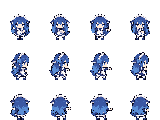
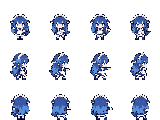
Pick symmetry-friendly sampling offsets so both eyes match
The AI art's pixel grid does not line up with our sampling grid, so one
eye could land on a block boundary and shrink to a single pixel.
pixelize.py now tries several sub-pixel offsets per row and keeps the
one with the most left-right symmetric face on front-facing cells
(--front) and the cleanest blocks elsewhere; a whole row shares one
offset so animations do not jitter. All sheets regenerated.

diff --git a/art/pixelize.py b/art/pixelize.py
@@ -25,6 +25,7 @@ ap.add_argument("--colors", type=int, default=20)
 ap.add_argument("--preview", default="")
 ap.add_argument("--ref", default="", help="用第 r,c 格（从 0 数）的高度定比例：这一格缩成 --height 高")
 ap.add_argument("--strip-tool", action="store_true", help="抠掉灰色工具头、棕色手柄/鱼竿、灰蓝水壶（游戏会自己画工具）")
+ap.add_argument("--front", default="", help="正脸格子，取样时优先保证左右对称：'0' 是第 0 行整行，'1:3' 是第 1 行第 3 列，逗号分隔")
 args = ap.parse_args()
 CELL_W, CELL_H = (int(v) for v in args.cell.split("x"))
 
@@ -96,18 +97,23 @@ else:
 print(f"block size {block:.2f}")
 print("cell heights:", {k: round((v[1] - v[0] + 1) / block, 1) for k, v in cells.items()})
 
-sheet = np.zeros((args.rows * CELL_H, args.cols * CELL_W, 4), dtype=np.uint8)
-for (ri, ci), (top, bottom, x0, x1) in cells.items():
-    own = np.zeros_like(fg)
-    own[top:bottom + 1, x0:x1 + 1] = True
-    cfg = fg & own
-    head_bottom = top + int((bottom - top) * 0.4)
-    hx = np.where(cfg[top:head_bottom + 1].any(0))[0]
-    head_cx = (hx.min() + hx.max()) / 2
+def is_front(ri, ci):
+    """--front 指定的正脸格子："0" 表示第 0 行整行，"1:3" 表示第 1 行第 3 列。"""
+    for item in filter(None, args.front.split(",")):
+        r_, _, c_ = item.partition(":")
+        if int(r_) == ri and (not c_ or int(c_) == ci):
+            return True
+    return False
+
+
+def sample(cfg, bottom, head_cx, dx, dy):
+    """按给定的取样起点偏移，把一格缩成 CELL_W x CELL_H。返回 (RGBA 图, 平均纯度)。"""
+    out = np.zeros((CELL_H, CELL_W, 4), dtype=np.uint8)
+    purity = []
     for ty in range(CELL_H):
         for tx in range(CELL_W):
-            sy0 = bottom + 1 - (CELL_H - ty) * block
-            sx0 = head_cx + (tx - CELL_W / 2) * block
+            sy0 = bottom + 1 - (CELL_H - ty) * block + dy
+            sx0 = head_cx + (tx - CELL_W / 2) * block + dx
             ya, yb = int(sy0 + block * 0.15), int(sy0 + block * 0.85) + 1
             xa, xb = int(sx0 + block * 0.15), int(sx0 + block * 0.85) + 1
             if ya < 0 or xa < 0 or yb > im.shape[0] or xb > im.shape[1]:
@@ -115,8 +121,56 @@ for (ri, ci), (top, bottom, x0, x1) in cells.items():
             fgb = cfg[ya:yb, xa:xb]
             if fgb.mean() < 0.5:
                 continue
-            col = palette[np.bincount(qidx[ya:yb, xa:xb][fgb]).argmax()]
-            sheet[ri * CELL_H + ty, ci * CELL_W + tx] = [*col.astype(np.uint8), 255]
+            counts = np.bincount(qidx[ya:yb, xa:xb][fgb])
+            purity.append(counts.max() / counts.sum())
+            out[ty, tx] = [*palette[counts.argmax()].astype(np.uint8), 255]
+    return out, (float(np.mean(purity)) if purity else 0.0)
+
+
+def symmetry(cell):
+    """正脸头部（最上面 12 行）的左右对称程度：左右镜像位置颜色相同的比例，取两种对称轴里更好的。"""
+    rows = np.where((cell[..., 3] > 0).any(1))[0]
+    if len(rows) == 0:
+        return 0.0
+    head = cell[rows[0]:rows[0] + 12]
+    best = 0.0
+    for axis in (CELL_W / 2 - 0.5, CELL_W / 2 - 1):  # 偶数宽（两列之间）或奇数宽（某一列正中）
+        same = total = 0
+        for x in range(CELL_W):
+            mx = int(round(2 * axis - x))
+            if mx <= x or mx >= CELL_W:
+                continue
+            a_, b_ = head[:, x], head[:, mx]
+            used = (a_[:, 3] > 0) | (b_[:, 3] > 0)
+            total += used.sum()
+            same += (used & (a_ == b_).all(1)).sum()
+        best = max(best, same / total if total else 0.0)
+    return best
+
+
+sheet = np.zeros((args.rows * CELL_H, args.cols * CELL_W, 4), dtype=np.uint8)
+# GPT 画的"像素"和我们的取样格子大小不一样，取样起点差半格，眼睛就可能一只 2 像素一只 1 像素。
+# 所以试一圈起点：正脸看左右对称，其他看每块颜色纯不纯（线条干净）。
+# 同一行是同一个方向的连续动画，整行共用一个起点，否则相邻帧会错开 1 像素、走起来抖
+OFFSETS = [(fx, fy) for fx in np.arange(-0.5, 0.5, 1 / 6) for fy in (0.0, 0.25, 0.5)]
+for ri in range(args.rows):
+    tried = {}  # (ci, 偏移序号) -> (分数, 图)
+    for ci in range(args.cols):
+        top, bottom, x0, x1 = cells[ri, ci]
+        own = np.zeros_like(fg)
+        own[top:bottom + 1, x0:x1 + 1] = True
+        cfg = fg & own
+        head_bottom = top + int((bottom - top) * 0.4)
+        hx = np.where(cfg[top:head_bottom + 1].any(0))[0]
+        head_cx = (hx.min() + hx.max()) / 2
+        front = is_front(ri, ci)
+        for k, (fx, fy) in enumerate(OFFSETS):
+            cand, purity = sample(cfg, bottom, head_cx, fx * block, fy * block)
+            tried[ci, k] = (purity + (2.0 * symmetry(cand) if front else 0.0), cand)
+    best_k = max(range(len(OFFSETS)), key=lambda k: sum(tried[ci, k][0] for ci in range(args.cols)))
+    for ci in range(args.cols):
+        sheet[ri * CELL_H:(ri + 1) * CELL_H, ci * CELL_W:(ci + 1) * CELL_W] = tried[ci, best_k][1]
+for (ri, ci), (top, bottom, x0, x1) in cells.items():
     # 角色超出格子会被裁掉，提醒一下
     if (bottom - top + 1) / block > CELL_H or (x1 - x0 + 1) / block > CELL_W + 4:
         print(f"注意：第 {ri + 1} 行第 {ci + 1} 列的角色超出了 {CELL_W}x{CELL_H} 的格子，可以加大 --cell")

diff --git a/README.md b/README.md
@@ -63,16 +63,16 @@ A SMAPI mod that replaces the Stardew Valley farmer with a chibi whale-girl maid
 
 1. `art/prompts.md`：给图像模型的提示词（品红背景、固定网格、每次附上走路图当参考）。
 2. `art/source/`：模型生成的原图（1024×1536）。
-3. `art/pixelize.py`：把原图转成真正的低分辨率像素帧——抠品红背景、按块取主色、压缩调色板、脚底和头部对齐；`--strip-tool` 能尽量抠掉图里的工具（游戏会自己画），但效果不如直接让模型画空手姿势，`--ref r,c --height 26` 按某一格的站立高度统一大小。
+3. `art/pixelize.py`：把原图转成真正的低分辨率像素帧——抠品红背景、按块取主色、压缩调色板、脚底和头部对齐；`--strip-tool` 能尽量抠掉图里的工具（游戏会自己画），但效果不如直接让模型画空手姿势，`--ref r,c --height 26` 按某一格的站立高度统一大小；`--front` 标出正脸的格子，取样时会多试几种起点，挑左右眼最对称的（同一行共用一个起点，动画不抖）。
 
 ```bash
-python art/pixelize.py art/source/1-full.png WhaleFarmer/assets/walk.png --cols 4 --rows 4 --height 30
-python art/pixelize.py art/source/4-tools.png WhaleFarmer/assets/tools.png --cols 4 --rows 3 --ref 0,3 --height 26 --cell 40x40
-python art/pixelize.py art/source/5-melee.png WhaleFarmer/assets/melee.png --cols 4 --rows 3 --ref 0,0 --height 26 --cell 40x40
-python art/pixelize.py art/source/6-crouch.png WhaleFarmer/assets/crouch.png --cols 4 --rows 3 --ref 0,2 --height 26 --cell 40x40
-python art/pixelize.py art/source/7-fishing.png WhaleFarmer/assets/fishing.png --cols 3 --rows 3 --ref 0,0 --height 26 --cell 40x40
-python art/pixelize.py art/source/8-eat.png WhaleFarmer/assets/eat.png --cols 6 --rows 1 --ref 0,1 --height 26 --cell 40x40
-python art/pixelize.py art/source/9-misc.png WhaleFarmer/assets/misc.png --cols 4 --rows 2 --ref 1,3 --height 26 --cell 40x40
+python art/pixelize.py art/source/1-full.png WhaleFarmer/assets/walk.png --cols 4 --rows 4 --block 10.33 --front 0
+python art/pixelize.py art/source/4-tools.png WhaleFarmer/assets/tools.png --cols 4 --rows 3 --ref 0,3 --height 26 --cell 40x40 --front 0
+python art/pixelize.py art/source/5-melee.png WhaleFarmer/assets/melee.png --cols 4 --rows 3 --ref 0,0 --height 26 --cell 40x40 --front 0
+python art/pixelize.py art/source/6-crouch.png WhaleFarmer/assets/crouch.png --cols 4 --rows 3 --ref 0,2 --height 26 --cell 40x40 --front 0
+python art/pixelize.py art/source/7-fishing.png WhaleFarmer/assets/fishing.png --cols 3 --rows 3 --ref 0,0 --height 26 --cell 40x40 --front 0
+python art/pixelize.py art/source/8-eat.png WhaleFarmer/assets/eat.png --cols 6 --rows 1 --ref 0,1 --height 26 --cell 40x40 --front 0
+python art/pixelize.py art/source/9-misc.png WhaleFarmer/assets/misc.png --cols 4 --rows 2 --ref 1,3 --height 26 --cell 40x40 --front 1,0:0
 ```
 
 需要 Python 3、numpy、Pillow。
